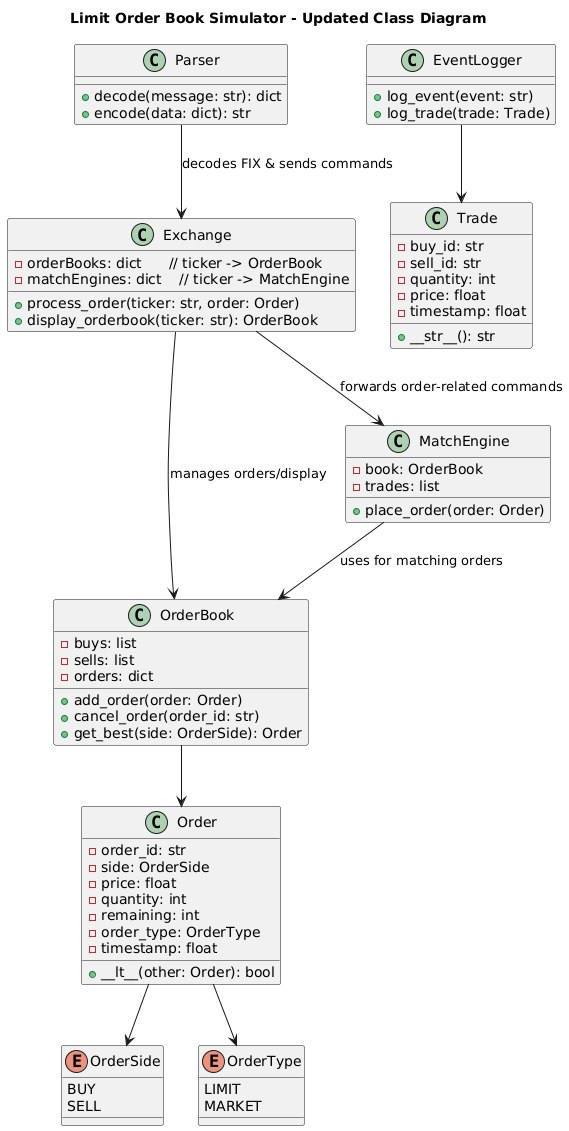
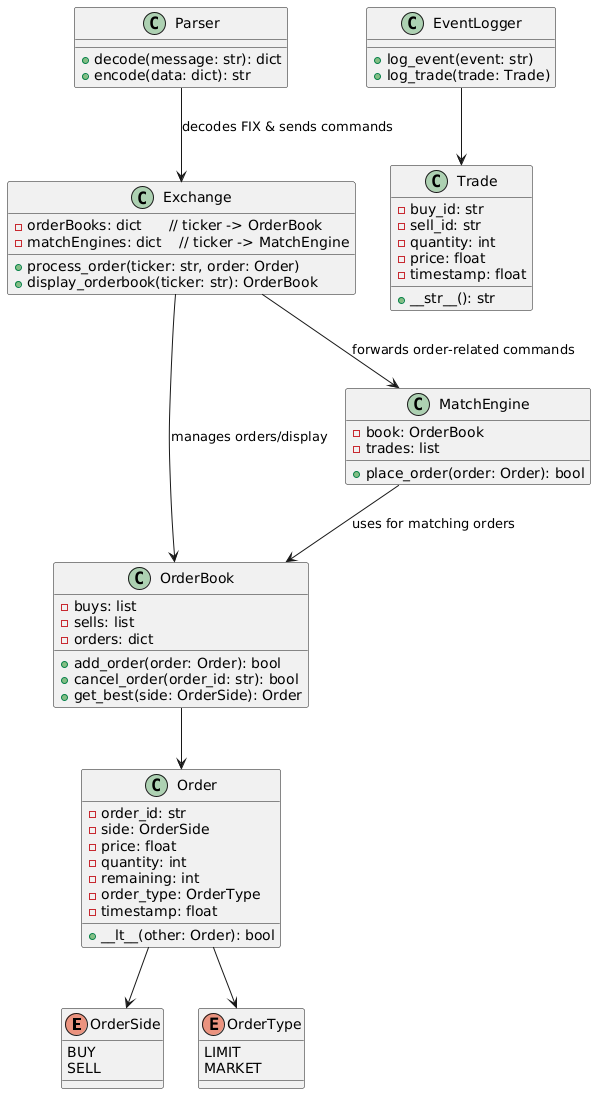
Amend Order Book

Changed region(s): [[0.0, 0.0, 1.0, 1.0], [0.4482, 0.6837, 0.478, 0.7459]]

diff --git a/src/core/order_book.py b/src/core/order_book.py
@@ -4,11 +4,26 @@ import heapq
 
 class OrderBook:
     def __init__(self):
+        '''
+        Initialize the order book with empty bids and asks heaps and an orders dictionary.
+        Attributes:
+            bids (list): Max heap for buy orders.
+            asks (list): Min heap for sell orders.
+            orders (dict): Dictionary to store orders by id.
+        '''
         self.bids = []  # max heap for bids
         self.asks = []  # min heap for asks
         self.orders = {}  # dictionary to store orders by id
 
     def add_order(self, order):
+        '''
+        Add an order to the order book.
+        :param order: The order to be added.
+        Returns:
+        bool: True if the order was added successfully, False otherwise.
+        '''
+        if order.id in self.orders:
+            return False
         self.orders[order.id] = order
         if order.side == OrderSide.BUY:
             heapq.heappush(self.bids, order)
@@ -17,17 +32,31 @@ class OrderBook:
         self.orders[order.id] = order
 
     def cancel_order(self, order_id: str):
-        if order_id in self.orders:
-            order = self.orders[order_id]
-            if order.side == OrderSide.BUY:
-                self.bids.remove(order)
-                heapq.heapify(self.bids)
-            else:
-                self.asks.remove(order)
-                heapq.heapify(self.asks)
-            del self.orders[order_id]
+        '''
+        Cancel an order by its ID.
+        :param order_id: The ID of the order to be canceled.
+        Returns:
+        bool: True if the order was canceled successfully, False otherwise.
+        '''
+        if order_id not in self.orders:
+            return False
+
+        order = self.orders[order_id]
+        if order.side == OrderSide.BUY:
+            self.bids.remove(order)
+            heapq.heapify(self.bids)
+        else:
+            self.asks.remove(order)
+            heapq.heapify(self.asks)
+        del self.orders[order_id]
 
     def get_best_bid(self, side: OrderSide):
+        '''
+        Get the best bid or ask from the order book.
+        :param side: The side of the order (BUY or SELL).
+        Returns:
+        Order: The best order from the order book.
+        '''
         if side == OrderSide.BUY and self.bids:
             return self.bids[0]
         elif side == OrderSide.SELL and self.asks:

diff --git a/test/test_order_book.py b/test/test_order_book.py
@@ -40,3 +40,11 @@ def test_get_best_bid():
     order_book.add_order(order2)
     best_bid = order_book.get_best_bid(OrderSide.BUY)
     assert best_bid == order2  # highest price should be returned
+
+def test_add_order_duplicate_id():
+    order_book = OrderBook()
+    order = Order(id="1", side=OrderSide.BUY, price=100, quantity=10, order_type=OrderType.LIMIT)
+    order_book.add_order(order)
+    # Duplicate order with same ID
+    duplicate_order = Order(id="1", side=OrderSide.BUY, price=105, quantity=5, order_type=OrderType.LIMIT)
+    assert order_book.add_order(duplicate_order) == False
